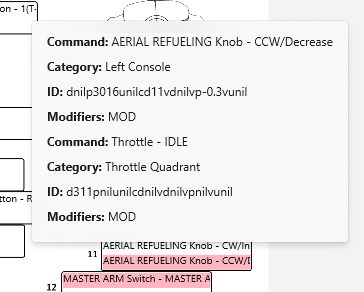
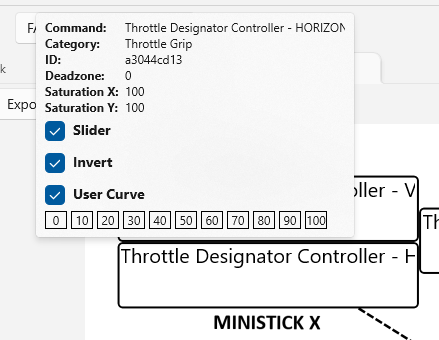
Updated help with new info popup layout.

diff --git a/Help/ViewJoysticks.md b/Help/ViewJoysticks.md
@@ -27,6 +27,4 @@ The bindings displayed are loaded from DCS each time you start the application.
 - Hovering your mouse over a command label will cause the Comand Info Popup to appear.
 
 ![Command Info Popup](CommandInfoPopup.png)
-
-- Note that two commands are listed and they are highlighted in red on the layout, in DCS two commands have been assigned to the one button.
  
